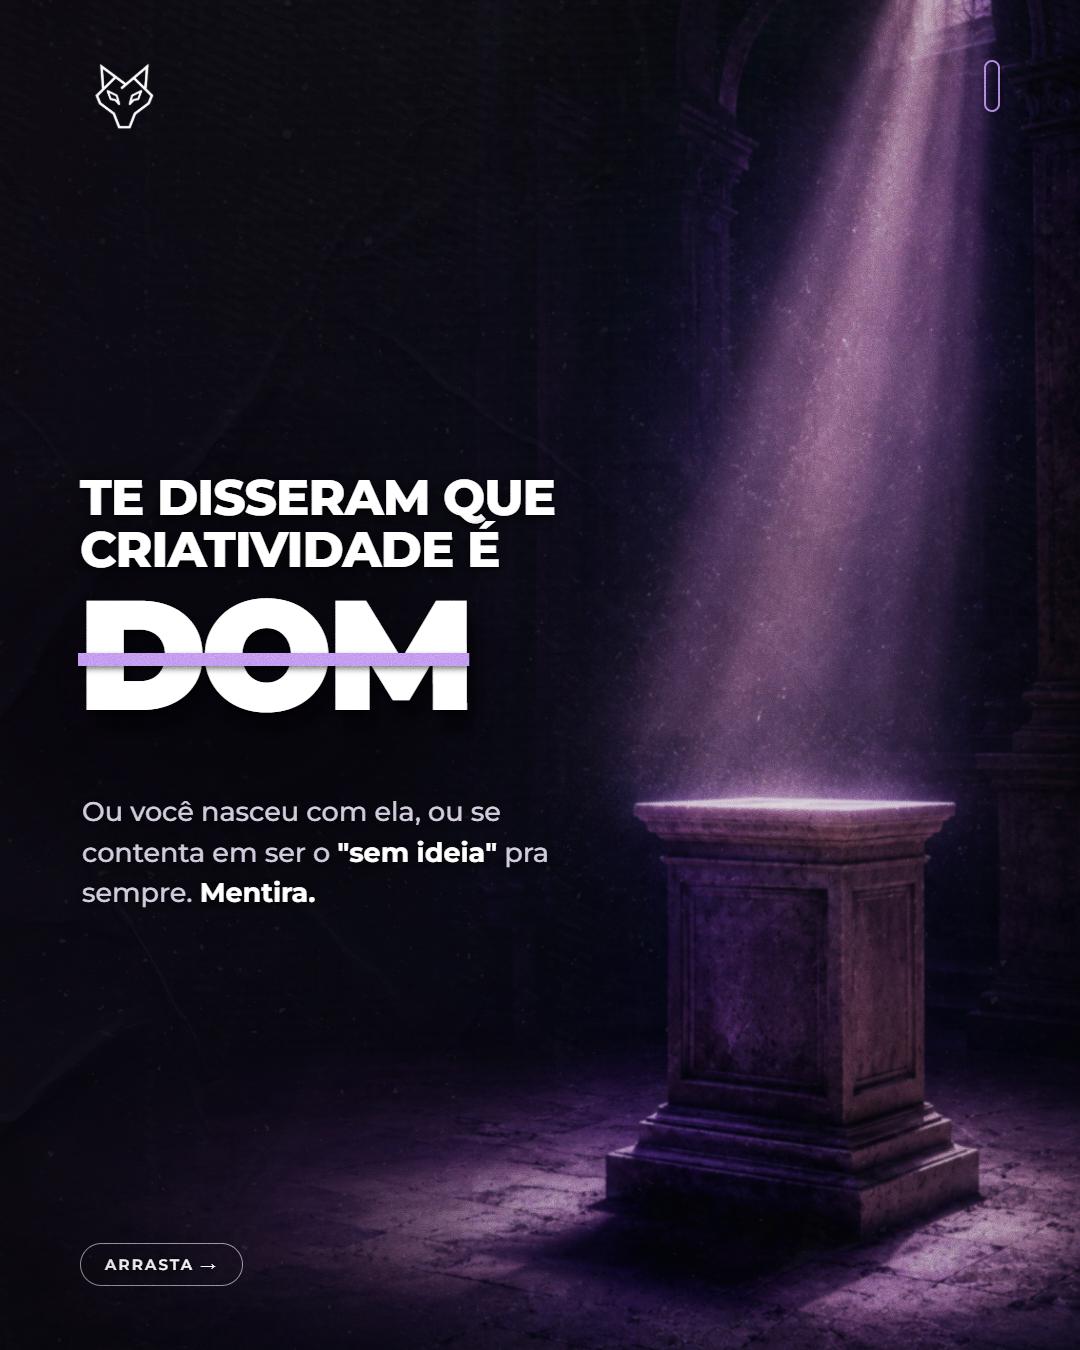
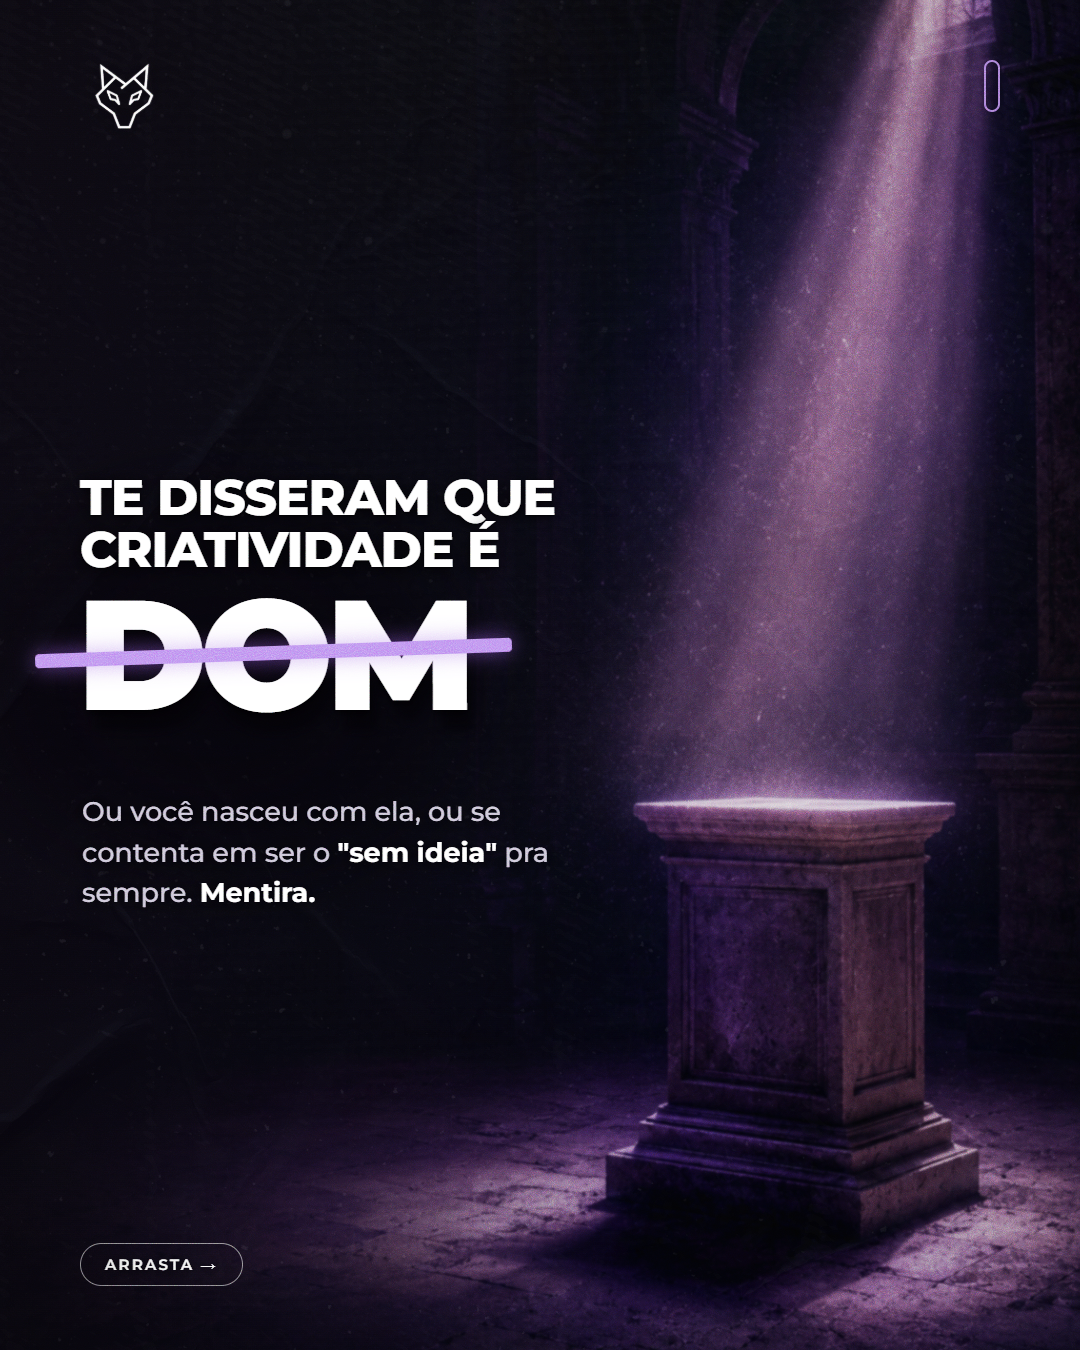
Slide 2: riscado ultrapassa a palavra igual nos dois lados

Changed region(s): [[0.0306, 0.4667, 0.4889, 0.4978]]

diff --git a/marketing/conteudo/carrossel-referencias-criatividade-2026-06-17/slide-02.html b/marketing/conteudo/carrossel-referencias-criatividade-2026-06-17/slide-02.html
@@ -37,8 +37,12 @@
   .hero{ position:absolute; left:78px; top:584px; font-weight:900; text-transform:uppercase;
     font-size:156px; line-height:.9; letter-spacing:-.04em; }
   .heroShadow{ z-index:4; color:rgba(3,2,6,.92); transform:translate(8px,20px); filter:blur(6px); }
-  .heroFront{ z-index:5; color:#fff; text-shadow:0 3px 6px rgba(0,0,0,.6);
-    text-decoration:line-through; text-decoration-color:var(--roxo-claro); text-decoration-thickness:13px; }
+  .heroFront{ z-index:5; color:#fff; text-shadow:0 3px 6px rgba(0,0,0,.6); }
+  .hero .w{ position:relative; display:inline-block; }
+  /* riscado que ultrapassa a palavra igual nos dois lados */
+  .heroFront .w::after{ content:""; position:absolute; left:-11%; right:-11%; top:49%; height:14px;
+    transform:translateY(-50%) rotate(-2deg); background:var(--roxo-claro); border-radius:4px;
+    box-shadow:0 0 20px rgba(155,95,224,.6); }
 
   .corpo{ position:absolute; z-index:5; left:82px; top:792px; max-width:470px;
     font-size:27px; font-weight:500; line-height:1.5; color:#C9C3D6; text-shadow:0 2px 14px rgba(0,0,0,.85); }
@@ -75,8 +79,8 @@
     </div>
 
     <div class="lead">Te disseram que<br>criatividade é</div>
-    <div class="hero heroShadow">Dom</div>
-    <div class="hero heroFront">Dom</div>
+    <div class="hero heroShadow"><span class="w">Dom</span></div>
+    <div class="hero heroFront"><span class="w">Dom</span></div>
     <div class="corpo">Ou você nasceu com ela, ou se contenta em ser o <b>"sem ideia"</b> pra sempre. <b>Mentira.</b></div>
 
     <div class="arrasta">Arrasta →</div>